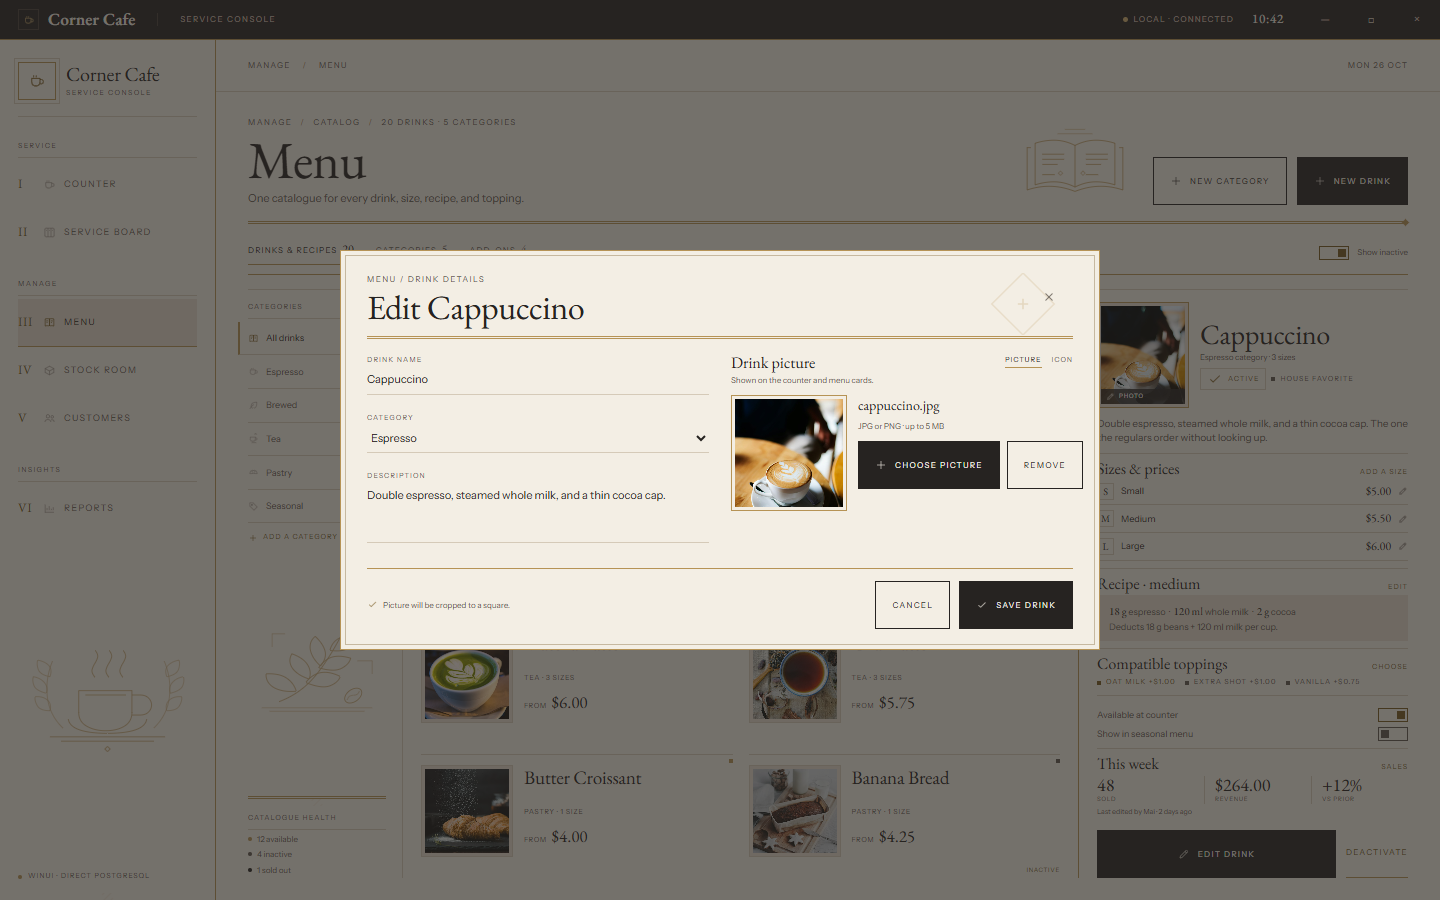
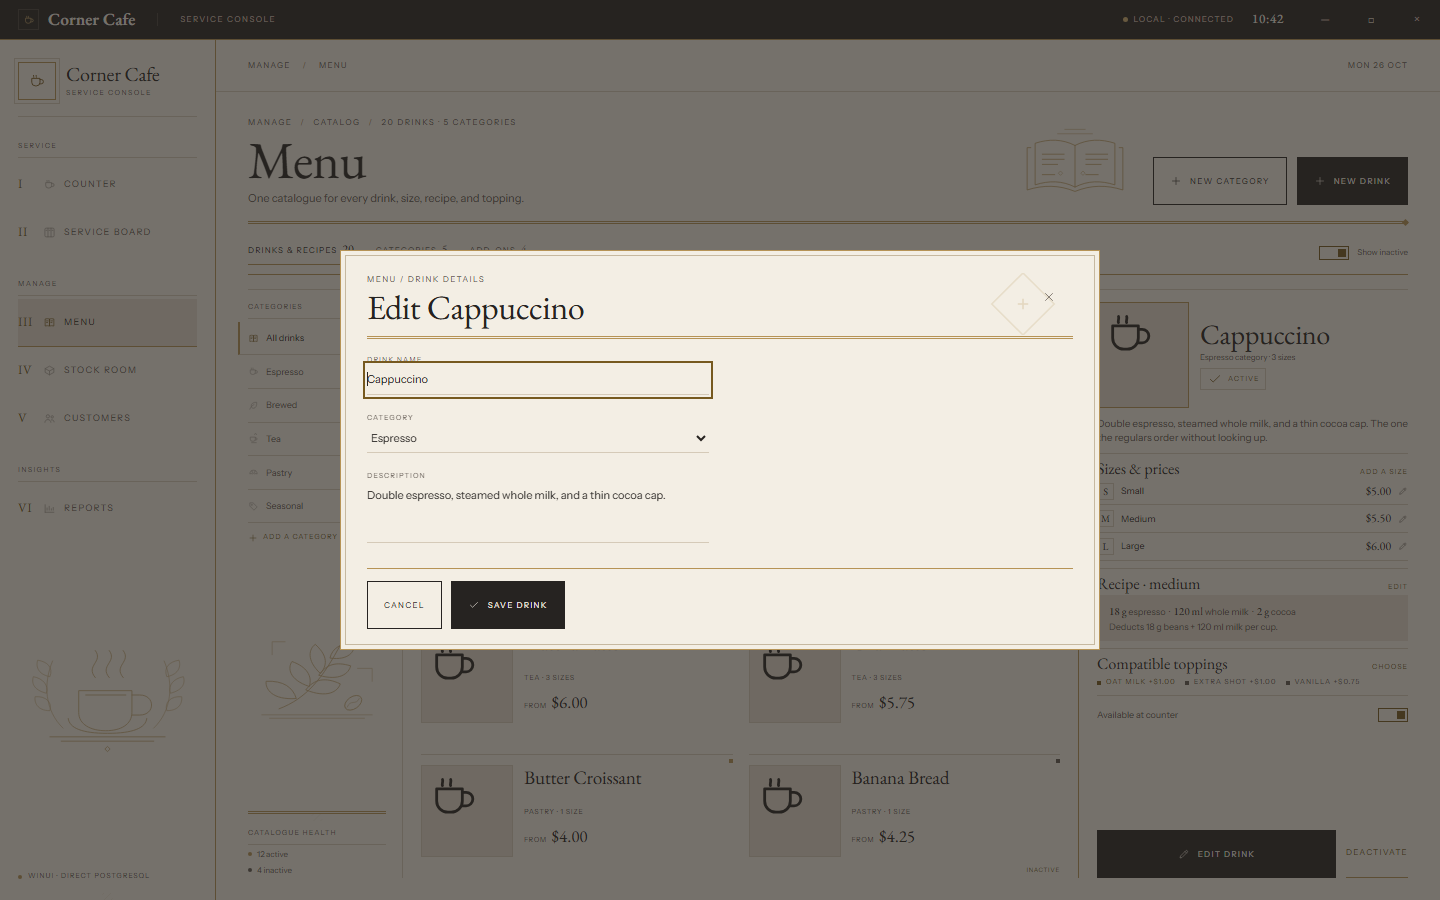
docs(ui): revise supported workspace concepts (#117)

diff --git a/docs/ui-concepts/screens/menu.html b/docs/ui-concepts/screens/menu.html
@@ -87,9 +87,8 @@
             <img class="rail-ornament" src="../assets/ornaments/stock-room.svg" alt="" aria-hidden="true">
             <div class="rail-health">
               <div class="category-label">Catalogue health</div>
-              <div class="health-row"><span class="status-dot blue"></span> 12 available</div>
+              <div class="health-row"><span class="status-dot blue"></span> 12 active</div>
               <div class="health-row"><span class="status-dot"></span> 4 inactive</div>
-              <div class="health-row"><span class="status-dot ink"></span> 1 sold out</div>
             </div>
           </aside>
 
@@ -100,42 +99,42 @@
             </div>
             <div class="product-grid">
               <article class="product">
-                <div class="product-art"><img class="d-photo" src="../assets/photos/espresso.jpg" alt="Americano"></div>
+                <div class="product-art"><svg class="doodle" aria-hidden="true"><use href="#i-counter"/></svg></div>
                 <div class="product-copy"><div class="product-name">Americano</div><div class="product-meta">Espresso · 3 sizes</div><div class="product-price">from <b>$4.50</b></div></div>
                 <span class="product-dot"></span>
               </article>
               <article class="product selected">
-                <div class="product-art"><img class="d-photo" src="../assets/photos/cappuccino.jpg" alt="Cappuccino"></div>
+                <div class="product-art"><svg class="doodle" aria-hidden="true"><use href="#i-counter"/></svg></div>
                 <div class="product-copy"><div class="product-name">Cappuccino</div><div class="product-meta">Espresso · 3 sizes</div><div class="product-price">from <b>$5.50</b></div></div>
                 <span class="product-dot"></span>
               </article>
               <article class="product">
-                <div class="product-art"><img class="d-photo" src="../assets/photos/flat-white.jpg" alt="Flat White"></div>
+                <div class="product-art"><svg class="doodle" aria-hidden="true"><use href="#i-counter"/></svg></div>
                 <div class="product-copy"><div class="product-name">Flat White</div><div class="product-meta">Espresso · 2 sizes</div><div class="product-price">from <b>$5.25</b></div></div>
                 <span class="product-dot"></span>
               </article>
               <article class="product">
-                <div class="product-art"><img class="d-photo" src="../assets/photos/cold-brew.jpg" alt="Cold Brew"></div>
+                <div class="product-art"><svg class="doodle" aria-hidden="true"><use href="#i-counter"/></svg></div>
                 <div class="product-copy"><div class="product-name">Cold Brew</div><div class="product-meta">Brewed · 3 sizes</div><div class="product-price">from <b>$5.50</b></div></div>
                 <span class="product-dot"></span>
               </article>
               <article class="product">
-                <div class="product-art"><img class="d-photo" src="../assets/photos/matcha.jpg" alt="Matcha Latte"></div>
+                <div class="product-art"><svg class="doodle" aria-hidden="true"><use href="#i-counter"/></svg></div>
                 <div class="product-copy"><div class="product-name">Matcha Latte</div><div class="product-meta">Tea · 3 sizes</div><div class="product-price">from <b>$6.00</b></div></div>
                 <span class="product-dot"></span>
               </article>
               <article class="product">
-                <div class="product-art"><img class="d-photo" src="../assets/photos/chai.jpg" alt="Chai Latte"></div>
+                <div class="product-art"><svg class="doodle" aria-hidden="true"><use href="#i-counter"/></svg></div>
                 <div class="product-copy"><div class="product-name">Chai Latte</div><div class="product-meta">Tea · 3 sizes</div><div class="product-price">from <b>$5.75</b></div></div>
                 <span class="product-dot"></span>
               </article>
               <article class="product">
-                <div class="product-art"><img class="d-photo" src="../assets/photos/croissant.jpg" alt="Butter Croissant"></div>
+                <div class="product-art"><svg class="doodle" aria-hidden="true"><use href="#i-counter"/></svg></div>
                 <div class="product-copy"><div class="product-name">Butter Croissant</div><div class="product-meta">Pastry · 1 size</div><div class="product-price">from <b>$4.00</b></div></div>
                 <span class="product-dot"></span>
               </article>
               <article class="product">
-                <div class="product-art"><img class="d-photo" src="../assets/photos/banana-bread.jpg" alt="Banana Bread"></div>
+                <div class="product-art"><svg class="doodle" aria-hidden="true"><use href="#i-counter"/></svg></div>
                 <div class="product-copy"><div class="product-name">Banana Bread</div><div class="product-meta">Pastry · 1 size</div><div class="product-price">from <b>$4.25</b></div></div>
                 <span class="product-dot inactive"></span>
                 <span class="product-flag">inactive</span>
@@ -145,14 +144,11 @@
 
           <aside class="detail-card" aria-label="Selected drink">
             <div class="detail-top">
-              <button class="detail-art detail-art-button" id="editPhotoButton" aria-label="Change Cappuccino picture">
-                <img class="d-photo" src="../assets/photos/cappuccino.jpg" alt="Cappuccino photo">
-                <span class="detail-art-action"><svg class="ico"><use href="#i-edit"/></svg> Photo</span>
-              </button>
+              <div class="detail-art" aria-hidden="true"><svg class="doodle"><use href="#i-counter"/></svg></div>
               <div class="detail-title-wrap">
                 <div class="detail-title">Cappuccino</div>
                 <div class="detail-sub">Espresso category · 3 sizes</div>
-                <div class="detail-tags"><span class="pill pill-stamp pill-green"><svg class="ico"><use href="#i-check"/></svg> Active</span><span class="pill">House favorite</span></div>
+                <div class="detail-tags"><span class="pill pill-stamp pill-green"><svg class="ico"><use href="#i-check"/></svg> Active</span></div>
               </div>
             </div>
             <p class="detail-desc">Double espresso, steamed whole milk, and a thin cocoa cap. The one the regulars order without looking up.</p>
@@ -172,16 +168,6 @@
             </div>
             <div class="detail-section">
               <div class="detail-toggle-row"><span>Available at counter</span><span class="switch on"></span></div>
-              <div class="detail-toggle-row"><span>Show in seasonal menu</span><span class="switch"></span></div>
-            </div>
-            <div class="detail-section menu-perf">
-              <div class="detail-section-head"><h3>This week</h3><span class="right">Sales</span></div>
-              <div class="menu-perf-row">
-                <div><b>48</b><span>sold</span></div>
-                <div><b>$264.00</b><span>revenue</span></div>
-                <div><b>+12%</b><span>vs prior</span></div>
-              </div>
-              <div class="menu-perf-foot">Last edited by Mai · 2 days ago</div>
             </div>
             <div class="detail-actions">
               <button class="btn btn-primary" id="editDrinkButton"><svg class="ico"><use href="#i-edit"/></svg> Edit drink</button>
@@ -211,41 +197,9 @@
         <label class="field-label field-wide">Description<textarea class="input textarea" rows="3">Double espresso, steamed whole milk, and a thin cocoa cap.</textarea></label>
       </div>
 
-      <div class="drink-visual-field">
-        <div class="field-label-row">
-          <div><b>Drink picture</b><span>Shown on the counter and menu cards.</span></div>
-          <div class="visual-choice" role="group" aria-label="Drink visual type">
-            <button class="visual-choice-button active" data-visual="photo">Picture</button>
-            <button class="visual-choice-button" data-visual="icon">Icon</button>
-          </div>
-        </div>
-
-        <div class="photo-choice-panel" id="photoPanel">
-          <div class="photo-preview"><img id="photoPreview" src="../assets/photos/cappuccino.jpg" alt="Selected Cappuccino picture"></div>
-          <div class="photo-copy">
-            <b id="photoName">cappuccino.jpg</b>
-            <span>JPG or PNG · up to 5 MB</span>
-            <div class="photo-actions">
-              <label class="btn btn-primary photo-upload"><svg class="ico"><use href="#i-plus"/></svg> Choose picture<input id="photoInput" type="file" accept="image/png,image/jpeg" hidden></label>
-              <button class="btn" id="removePhoto">Remove</button>
-            </div>
-          </div>
-        </div>
-
-        <div class="icon-choice-panel" id="iconPanel" hidden>
-          <p>Choose a simple fallback when the drink has no picture.</p>
-          <div class="icon-options">
-            <button class="icon-option selected" data-icon="i-counter" aria-label="Coffee cup icon"><svg class="ico"><use href="#i-counter"/></svg></button>
-            <button class="icon-option" data-icon="i-tea" aria-label="Tea icon"><svg class="ico"><use href="#i-tea"/></svg></button>
-            <button class="icon-option" data-icon="i-leaf" aria-label="Leaf icon"><svg class="ico"><use href="#i-leaf"/></svg></button>
-            <button class="icon-option" data-icon="i-croissant" aria-label="Pastry icon"><svg class="ico"><use href="#i-croissant"/></svg></button>
-          </div>
-        </div>
-      </div>
     </div>
 
     <div class="drink-editor-foot">
-      <span class="editor-note" id="visualNote"><svg class="ico"><use href="#i-check"/></svg> Picture will be cropped to a square.</span>
       <button class="btn" id="cancelDrinkEditor">Cancel</button>
       <button class="btn btn-primary" id="saveDrink"><svg class="ico"><use href="#i-check"/></svg> Save drink</button>
     </div>
@@ -256,71 +210,24 @@
   const editor = document.getElementById('drinkEditor');
   const title = document.getElementById('drinkEditorTitle');
   const drinkName = document.getElementById('drinkName');
-  const photoPanel = document.getElementById('photoPanel');
-  const iconPanel = document.getElementById('iconPanel');
-  const photoPreview = document.getElementById('photoPreview');
-  const photoName = document.getElementById('photoName');
-  const visualNote = document.getElementById('visualNote');
-  let visualType = 'photo';
-  let chosenIcon = 'i-counter';
-
   function openEditor(isNew = false) {
     title.textContent = isNew ? 'New drink' : 'Edit Cappuccino';
     drinkName.value = isNew ? '' : 'Cappuccino';
     editor.hidden = false;
     document.body.classList.add('modal-open');
-    setTimeout(() => (isNew ? drinkName : document.querySelector('[data-visual="photo"]')).focus(), 0);
+    setTimeout(() => drinkName.focus(), 0);
   }
-
   function closeEditor() {
     editor.hidden = true;
     document.body.classList.remove('modal-open');
   }
-
-  function selectVisual(type) {
-    visualType = type;
-    document.querySelectorAll('.visual-choice-button').forEach(button => button.classList.toggle('active', button.dataset.visual === type));
-    photoPanel.hidden = type !== 'photo';
-    iconPanel.hidden = type !== 'icon';
-    visualNote.lastChild.textContent = type === 'photo' ? ' Picture will be cropped to a square.' : ' Icon will be used anywhere a picture is unavailable.';
-  }
-
   document.getElementById('editDrinkButton').addEventListener('click', () => openEditor(false));
-  document.getElementById('editPhotoButton').addEventListener('click', () => openEditor(false));
   document.getElementById('newDrinkButton').addEventListener('click', () => openEditor(true));
   document.getElementById('closeDrinkEditor').addEventListener('click', closeEditor);
   document.getElementById('cancelDrinkEditor').addEventListener('click', closeEditor);
+  document.getElementById('saveDrink').addEventListener('click', closeEditor);
   editor.addEventListener('click', event => { if (event.target === editor) closeEditor(); });
   document.addEventListener('keydown', event => { if (event.key === 'Escape' && !editor.hidden) closeEditor(); });
-  document.querySelectorAll('.visual-choice-button').forEach(button => button.addEventListener('click', () => selectVisual(button.dataset.visual)));
-  document.querySelectorAll('.icon-option').forEach(button => button.addEventListener('click', () => {
-    chosenIcon = button.dataset.icon;
-    document.querySelectorAll('.icon-option').forEach(option => option.classList.toggle('selected', option === button));
-  }));
-
-  document.getElementById('photoInput').addEventListener('change', event => {
-    const file = event.target.files[0];
-    if (!file) return;
-    photoPreview.src = URL.createObjectURL(file);
-    photoName.textContent = file.name;
-    selectVisual('photo');
-  });
-
-  document.getElementById('removePhoto').addEventListener('click', () => selectVisual('icon'));
-  document.getElementById('saveDrink').addEventListener('click', () => {
-    const productSlot = document.querySelector('.product.selected .product-art');
-    const detailSlot = document.querySelector('.detail-art');
-    const name = drinkName.value || 'Drink';
-    if (visualType === 'photo') {
-      productSlot.innerHTML = `<img class="d-photo" src="${photoPreview.src}" alt="${name}">`;
-      detailSlot.innerHTML = `<img class="d-photo" src="${photoPreview.src}" alt="${name} photo"><span class="detail-art-action"><svg class="ico"><use href="#i-edit"/></svg> Photo</span>`;
-    } else {
-      productSlot.innerHTML = `<svg class="doodle"><use href="#${chosenIcon}"/></svg>`;
-      detailSlot.innerHTML = `<svg class="doodle"><use href="#${chosenIcon}"/></svg><span class="detail-art-action"><svg class="ico"><use href="#i-edit"/></svg> Icon</span>`;
-    }
-    closeEditor();
-  });
-
   if (new URLSearchParams(location.search).has('edit')) openEditor(false);
 </script>
 </body>

diff --git a/docs/ui-concepts/screens/reports.html b/docs/ui-concepts/screens/reports.html
@@ -63,7 +63,7 @@
           <img class="page-ornament" src="../assets/ornaments/reports.svg" alt="" aria-hidden="true">
           <div class="page-actions">
             <button class="btn"><svg class="ico"><use href="#i-calendar"/></svg> 19 — 25 Oct <svg class="ico"><use href="#i-chevron"/></svg></button>
-            <button class="btn btn-primary"><svg class="ico"><use href="#i-download"/></svg> Export</button>
+            <button class="btn btn-primary"><svg class="ico"><use href="#i-refresh"/></svg> Refresh</button>
           </div>
         </div>
 
@@ -71,25 +71,25 @@
           <div class="report-kpi loud">
             <div class="k-label">Net revenue</div>
             <div class="k-value">$1,248.50</div>
-            <div class="k-sub"><span class="up">▲ 12.4%</span> vs 12 — 18 Oct</div>
+            <div class="k-sub">Recognized payments in period</div>
             <div class="k-mark"><svg class="ico"><use href="#i-cash"/></svg></div>
           </div>
           <div class="report-kpi">
-            <div class="k-label">Paid tickets</div>
+            <div class="k-label">Recognized orders</div>
             <div class="k-value">86</div>
-            <div class="k-sub"><span class="up">▲ 9 tickets</span> vs prior week</div>
+            <div class="k-sub">Distinct recognized orders in period</div>
             <div class="k-mark"><svg class="ico"><use href="#i-receipt"/></svg></div>
           </div>
           <div class="report-kpi">
-            <div class="k-label">Average ticket</div>
+            <div class="k-label">Revenue per order</div>
             <div class="k-value">$14.52</div>
-            <div class="k-sub">▼ $0.82 softer than prior week</div>
+            <div class="k-sub">Recognized revenue / order count</div>
             <div class="k-mark"><svg class="ico"><use href="#i-tag"/></svg></div>
           </div>
           <div class="report-kpi alert">
             <div class="k-label">Low stock</div>
             <div class="k-value">3 items</div>
-            <div class="k-sub">2 urgent · fix before close</div>
+            <div class="k-sub">Current balances · independent of period</div>
             <div class="k-mark"><svg class="ico"><use href="#i-warning"/></svg></div>
           </div>
         </div>
@@ -211,17 +211,12 @@
                 <div class="legend-row"><i style="background:var(--accent);"></i> Cash <span class="amount">$585.50</span><span class="pct">46.9%</span></div>
                 <div class="legend-row"><i style="background:var(--ink);"></i> Card <span class="amount">$409.50</span><span class="pct">32.8%</span></div>
                 <div class="legend-row"><i style="background:var(--ink-2);"></i> E-wallet <span class="amount">$253.50</span><span class="pct">20.3%</span></div>
-                <div class="chart-foot">
-                  <span class="pill pill-blue">Card</span>
-                  <span>fastest growing method</span>
-                  <b>+18%</b>
-                </div>
               </div>
             </div>
-            <div class="rstat-row">
-              <div class="rstat"><span>Peak hour</span><b>08:00 — 09:00</b><em>21 tickets</em></div>
-              <div class="rstat"><span>Dine-in share</span><b>58%</b><em>50 of 86 tickets</em></div>
-              <div class="rstat"><span>Items per ticket</span><b>2.4</b><em>206 items sold</em></div>
+            <div class="rstat-row" aria-label="Order channels">
+              <div class="rstat"><span>Dine-in</span><b>$724.13</b><em>50 recognized orders</em></div>
+              <div class="rstat"><span>Takeaway</span><b>$312.12</b><em>22 recognized orders</em></div>
+              <div class="rstat"><span>Delivery</span><b>$212.25</b><em>14 recognized orders</em></div>
             </div>
           </section>
 

diff --git a/docs/ui-concepts/screens/customers.html b/docs/ui-concepts/screens/customers.html
@@ -122,8 +122,6 @@
               </div>
               <div class="profile-stats">
                 <div class="pstat"><span>Loyalty balance</span><b>85 pts</b></div>
-                <div class="pstat"><span>Lifetime spend</span><b>$260.50</b></div>
-                <div class="pstat"><span>Orders</span><b>6</b></div>
               </div>
             </div>
 

diff --git a/openspec/changes/migrate-winui-service-console/design.md b/openspec/changes/migrate-winui-service-console/design.md
@@ -12,6 +12,10 @@ The updated concept assets committed with this change are the authoritative visu
 
 During part 1 implementation, the user approved revising the artboards to use 48-pixel primary controls and navigation rows and omit unsupported shell controls. The revised HTML/PNG artboards are the implementation target. Global search, notifications, open-ticket chrome, operator avatars, and shift-management chrome are omitted; a workspace breadcrumb and the current date remain. Native caption buttons retain their operating-system behavior. The Stock room shell temporarily offers a section selector for the six existing inventory routes so consolidation does not remove workflows before the section views are migrated. Individual workspace interiors are migrated in later parts; part 1 visual review covers the common shell and shared component gallery.
 
+### Approved Menu, Customers, and Reports capability revision
+
+On 2026-10-29, the user approved the targeted #117 concept changes: use one fixed decorative drink icon and a text-only drink editor; omit seasonal flags, catalog performance/audit labels, and customer lifetime totals; replace report comparisons and peak-hour metrics with current-period totals and order channels; replace Export with Refresh. Existing editing, recipes, compatibility, addresses, loyalty, next-order selection, payment filters, and report date filters remain required. The revised HTML and regenerated PNGs are the reference for these capability changes. This approval does not accept unrelated native layout, typography, control, or selection differences; exact matched-state visual verification remains required.
+
 ## Goals / Non-Goals
 
 **Goals:**

diff --git a/openspec/changes/migrate-winui-service-console/specs/staff-service-console/spec.md b/openspec/changes/migrate-winui-service-console/specs/staff-service-console/spec.md
@@ -25,6 +25,14 @@ The production UI SHALL match the updated concept art exactly at the 1440 by 900
 - **THEN** the affected completed checklist items are reopened and revalidated against the updated concept commit
 - **AND** previous behavioral test results alone do not establish visual completion
 
+#### Scenario: Approved capability revision for Menu, Customers, and Reports
+- **WHEN** #117 is compared with the reference concepts after the user approval of 2026-10-29
+- **THEN** drink imagery uses a fixed decorative icon and the drink editor contains text fields without picture or icon persistence controls
+- **AND** seasonal flags, catalog performance/audit labels, and customer lifetime totals are omitted
+- **AND** Reports uses current-period totals and order channels instead of prior-period comparisons or peak-hour metrics, and offers Refresh instead of Export
+- **AND** all existing catalog, customer, loyalty, next-order, date-filter, and payment-filter workflows remain available
+- **AND** this targeted approval does not waive the exact visual acceptance requirement for other visible differences
+
 ### Requirement: Task-oriented application shell
 The system SHALL present the staff client as one Corner Cafe service console with primary navigation for Counter, Service board, Menu, Stock room, Customers, and Reports.
 
